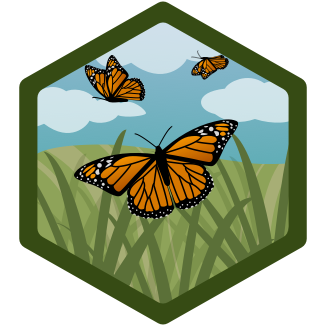
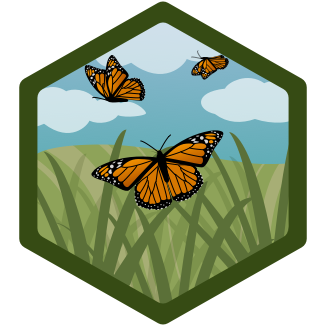
Added september challenge badges and images

Changed region(s): [[0.2147, 0.3681, 0.7362, 0.6748]]

diff --git a/utility/challengesDict.js b/utility/challengesDict.js
@@ -71,24 +71,24 @@ const challenges = {
     photographer: "challenges.photographer_august",
     action: "challenges.action_august",
     index: 3
+  },
+  september: {
+    name: "challenges.flow",
+    month: "challenges.september_2019",
+    description: "challenges.september_description",
+    totalSpecies: 10,
+    homeBackgroundName: "img-homechallenge-september",
+    backgroundName: "img-challengedetail-september",
+    unearnedIconName: "badge_empty",
+    earnedIconName: "badge_ourplanet_september",
+    missions: [
+      "challenges.mission_1_september"
+    ],
+    availableDate: new Date( 2019, 8, 1 ),
+    photographer: "challenges.photographer_september",
+    action: "challenges.action_september",
+    index: 4
   }
-  // september: {
-  //   name: "challenges.flow",
-  //   month: "challenges.september_2019",
-  //   description: "challenges.september_description",
-  //   totalSpecies: 10,
-  //   homeBackgroundName: "img-homechallenge-may",
-  //   backgroundName: "img-challengedetail-may",
-  //   unearnedIconName: "badge_empty",
-  //   earnedIconName: "badge_ourplanet_may",
-  //   missions: [
-  //     "challenges.mission_1_september"
-  //   ],
-  //   availableDate: new Date( 2019, 8, 1 ),
-  //   photographer: "challenges.photographer_september",
-  //   action: "challenges.action_september",
-  //   index: 4
-  // },
   // october: {
   //   name: "challenges.hotspots",
   //   month: "challenges.october_2019",

diff --git a/assets/backgrounds.js b/assets/backgrounds.js
@@ -8,10 +8,12 @@ const backgrounds = {
   "img-challengedetail-may": require( "./backgrounds/img-challengedetail-may.png" ),
   "img-challengedetail-june": require( "./backgrounds/img-challengedetail-june.png" ),
   "img-challengedetail-august": require( "./backgrounds/img-challengedetail-august.png" ),
+  "img-challengedetail-september": require( "./backgrounds/img-challengedetail-september.png" ),
   "img-homechallenge-april": require( "./backgrounds/img-homechallenge-april.png" ),
   "img-homechallenge-may": require( "./backgrounds/img-homechallenge-may.png" ),
   "img-homechallenge-june": require( "./backgrounds/img-homechallenge-june.png" ),
-  "img-homechallenge-august": require( "./backgrounds/img-homechallenge-august.png" )
+  "img-homechallenge-august": require( "./backgrounds/img-homechallenge-august.png" ),
+  "img-homechallenge-september": require( "./backgrounds/img-homechallenge-september.png" )
 };
 
 export default backgrounds;

diff --git a/assets/badges.js b/assets/badges.js
@@ -44,6 +44,7 @@ const badges = {
   badge_ourplanet_may: require( "./badges/challenges/badge_ourplanet_may.png" ),
   badge_ourplanet_june: require( "./badges/challenges/badge_ourplanet_june.png" ),
   badge_ourplanet_august: require( "./badges/challenges/badge_ourplanet_august.png" ),
+  badge_ourplanet_september: require( "./badges/challenges/badge_ourplanet_september.png" ),
   badge_bronze: require( "./badges/observations/icon-badge-bronze.png" ),
   badge_silver: require( "./badges/observations/icon-badge-silver.png" ),
   badge_gold: require( "./badges/observations/icon-badge-gold.png" ),

diff --git a/utility/missionsDict.js b/utility/missionsDict.js
@@ -50,12 +50,12 @@ const missions = {
       number: 10,
       types: ["insects"]
     }
-  }
-  // 4: {
-  //   0: {
-  //     number: 10,
-  //     types: ["Odonata", "Amphibia", "Actinopterygii", "Anseriformes", "Nymphaeales", "Pontederiaceae", "Lemnoideae", "Typhaceae", "Polypodiopsida", "Bryophyta"]
-  //   }
+  },
+  4: {
+    0: {
+      number: 10,
+      types: ["Odonata", "Amphibia", "Actinopterygii", "Anseriformes", "Nymphaeales", "Pontederiaceae", "Lemnoideae", "Typhaceae", "Polypodiopsida", "Bryophyta"]
+    }
   // },
   // 5: {
   //   0: {
